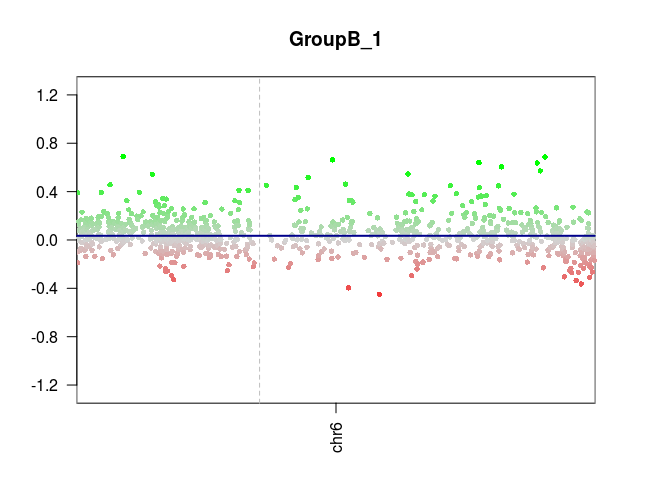
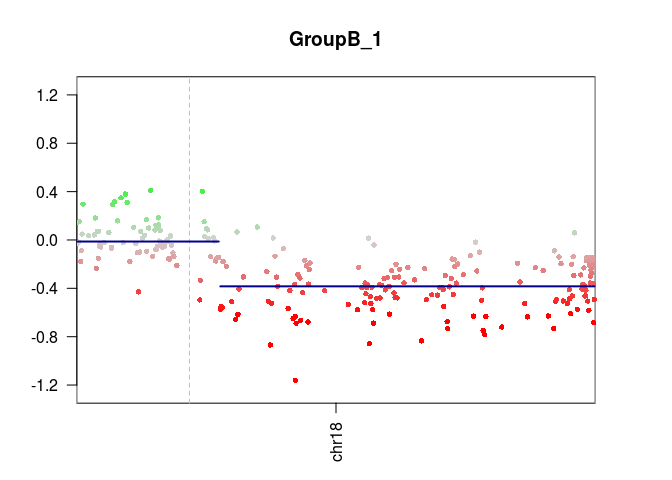
chromosome 18 used as example in vignette

diff --git a/README.md b/README.md
@@ -150,7 +150,7 @@ cnv <- CNV.detail(cnv)
 cnv <- CNV.segment(cnv)
 cnv
 #> CNV analysis object
-#>    created   : Mon Jul 16 10:11:11 2018
+#>    created   : Mon Jul 16 13:51:30 2018
 #>   @name      : GroupB_1
 #>   @anno      : 22 chromosomes, 470870 probes, 15820 bins
 #>   @fit       : available (noise: 2.32)
@@ -164,7 +164,7 @@ CNV.genomeplot(cnv)
 ![](README_files/figure-gfm/conumee-1.png)<!-- -->
 
 ``` r
-CNV.genomeplot(cnv, chr = 'chr6')
+CNV.genomeplot(cnv, chr = 'chr18')
 ```
 
 ![](README_files/figure-gfm/conumee-2.png)<!-- -->
